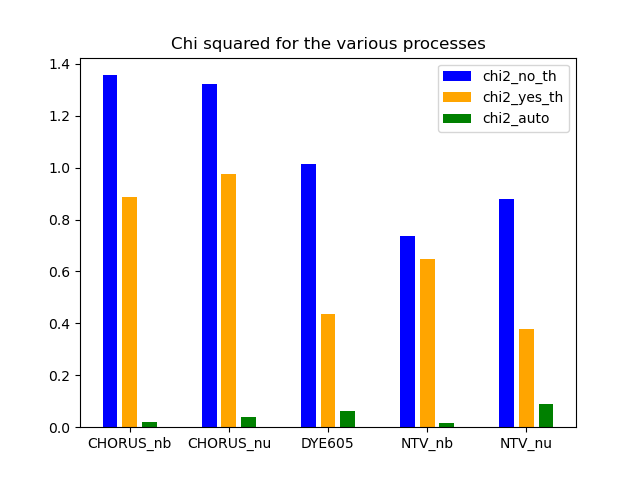
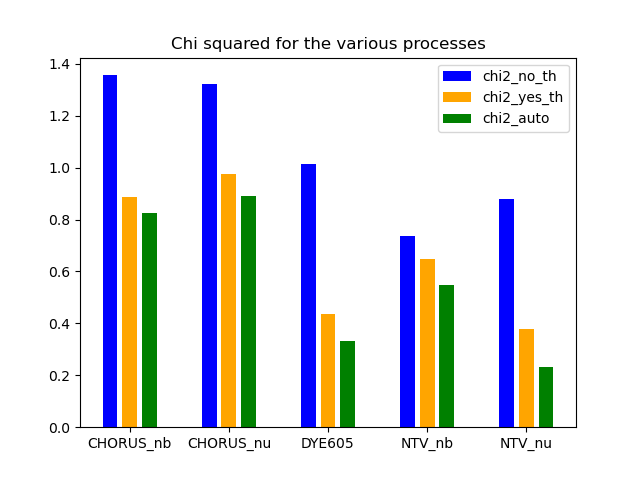
chi2

diff --git a/autoprediction.py b/autoprediction.py
@@ -43,22 +43,24 @@ x_contribution_2 = x_matrix - np.einsum('ij,jk,kl->il', th_covariance_matrix,CS,
 x_contribution_3 = np.einsum('ij,jk,kl,lm,mn->in', th_covariance_matrix, CS, x_matrix, CS, th_covariance_matrix, optimize='optimal')
 
 # DETERMINE CHI2 VALUES
-dataset_split = [0,416,832,917,954,len(TD)] # ds
-chi2_no_th = np.zeros(len(dataset_split)-1)
-chi2_yes_th = np.zeros(len(dataset_split)-1)
-chi2_auto = np.zeros(len(dataset_split)-1)
+ds = [0,416,832,917,954,len(TD)] # shorthand for dataset_split
+chi2_no_th = np.zeros(len(ds)-1)
+chi2_yes_th = np.zeros(len(ds)-1)
+chi2_auto = np.zeros(len(ds)-1)
 
-for n in range(len(dataset_split) - 1):
-     TD_ds = TD[dataset_split[n]:dataset_split[n+1]]
-     C_ds = exp_covariance_matrix[dataset_split[n]:dataset_split[n+1],dataset_split[n]:dataset_split[n+1]]
-     S_ds = th_covariance_matrix[dataset_split[n]:dataset_split[n+1],dataset_split[n]:dataset_split[n+1]]
-     CS_ds = inv((exp_covariance_matrix+th_covariance_matrix)[dataset_split[n]:dataset_split[n+1],dataset_split[n]:dataset_split[n+1]])
+for n in range(len(ds) - 1):
+     TD_ds = TD[ds[n]:ds[n+1]]
+     C_ds = exp_covariance_matrix[ds[n]:ds[n+1],ds[n]:ds[n+1]]
+     S_ds = th_covariance_matrix[ds[n]:ds[n+1],ds[n]:ds[n+1]]
+     CS_ds = inv((exp_covariance_matrix+th_covariance_matrix)[ds[n]:ds[n+1],ds[n]:ds[n+1]])
 
      delta_T_ds = - np.einsum('ij,jk,k->i', S_ds, CS_ds, TD_ds)
+     theory_data_ds = theory_data[ds[n]:ds[n+1]]
+     auto_ds = TD_ds + delta_T_ds
 
-     chi2_no_th[n] = np.einsum('i,ij,j', TD_ds, inv(C_ds), TD_ds, optimize='optimal') / (dataset_split[n+1] - dataset_split[n])
-     chi2_yes_th[n] = np.einsum('i,ij,j', TD_ds, CS_ds, TD_ds, optimize='optimal') / (dataset_split[n+1] - dataset_split[n])
-     chi2_auto[n] = np.einsum('i,ij,j', delta_T_ds, CS_ds, delta_T_ds, optimize='optimal') / (dataset_split[n+1] - dataset_split[n])
+     chi2_no_th[n] = np.einsum('i,ij,j', TD_ds, inv(C_ds), TD_ds, optimize='optimal') / (ds[n+1] - ds[n])
+     chi2_yes_th[n] = np.einsum('i,ij,j', TD_ds, CS_ds, TD_ds, optimize='optimal') / (ds[n+1] - ds[n])
+     chi2_auto[n] = np.einsum('i,ij,j', auto_ds, CS_ds, auto_ds, optimize='optimal') / (ds[n+1] - ds[n])
 
 
 # DUMP OUTPUT TO FILE
